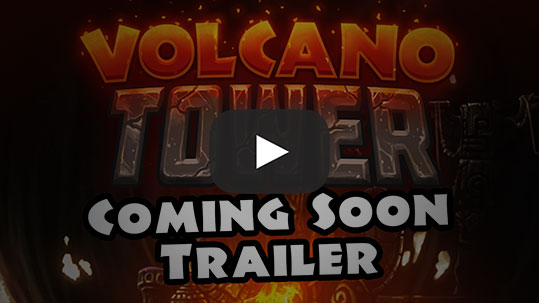
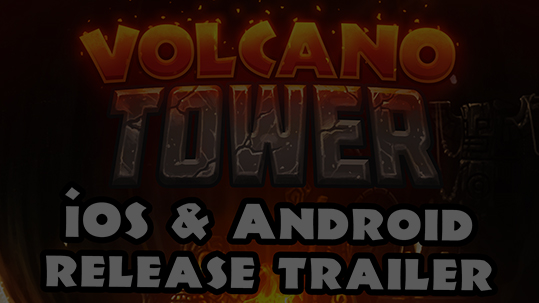
Video mouse hover.

diff --git a/index.html b/index.html
@@ -23,9 +23,9 @@
 <div id="video">
 
 <a data-fancybox href="https://www.youtube.com/vLkv_4q6378?autoplay=1&amp;rel=0&amp;showinfo=0">
-	<!--img style="position: absolute;" src="videothumbnail.jpg"-->
-	<img class="youtubeoverlay" src="videothumbnail_over.jpg">
-	<!--img src="volcanodrop_videolink.jpg"-->
+	<img style="position: absolute;" src="screenshots_play.png">
+	<img class="youtubeoverlay" src="screenshots_play_over.png">
+	<img src="videothumbnail.jpg">
 </a>
 <img src="video_frame.png" id="frame">
 

diff --git a/style.css b/style.css
@@ -41,7 +41,7 @@ div#video {
 	pointer-events:none;
 	position: absolute;
 	left: 50%;
-	margin-left: -294px;
+	margin-left: -296px;
 	margin-top: -72px;
 }
 
@@ -52,4 +52,14 @@ div#description {
 
 #social img {
 	margin: 5px
+}
+
+.youtubeoverlay {
+    position: absolute;
+    opacity: 0.0;
+}
+
+img.youtubeoverlay:hover {
+    opacity: 1.0;
+    
 }
